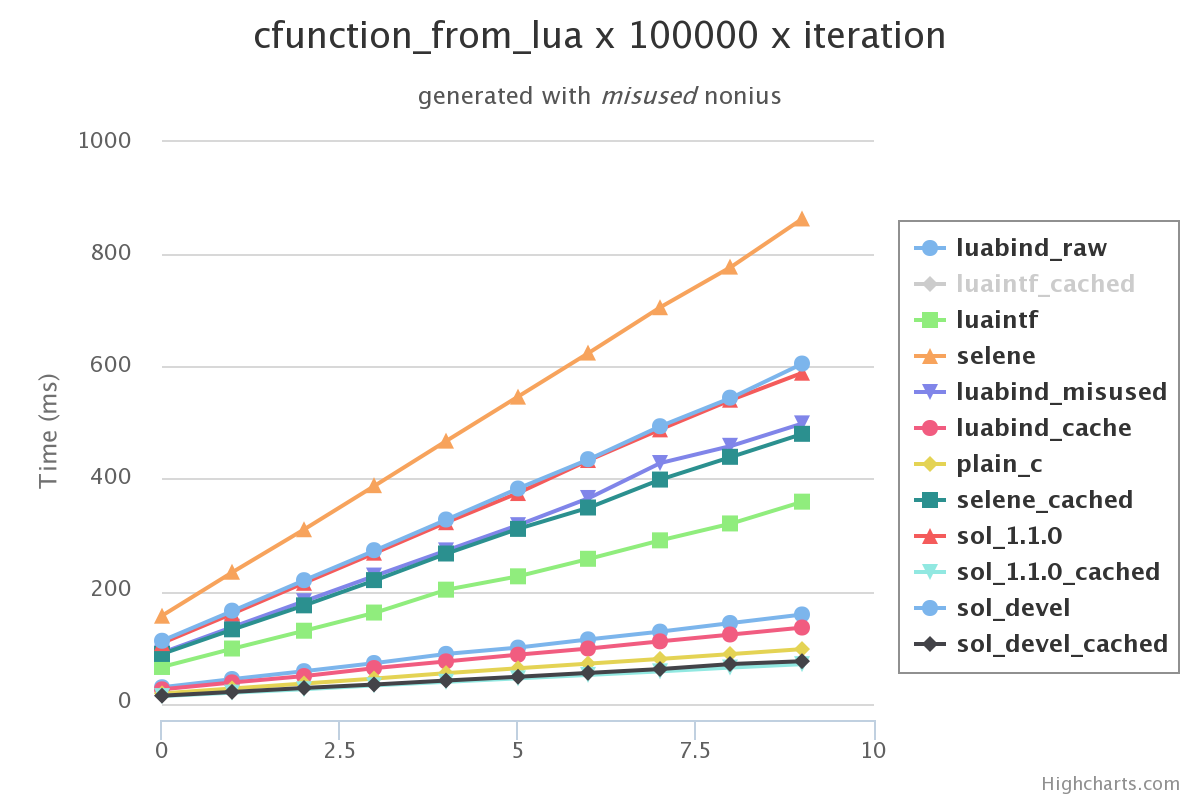
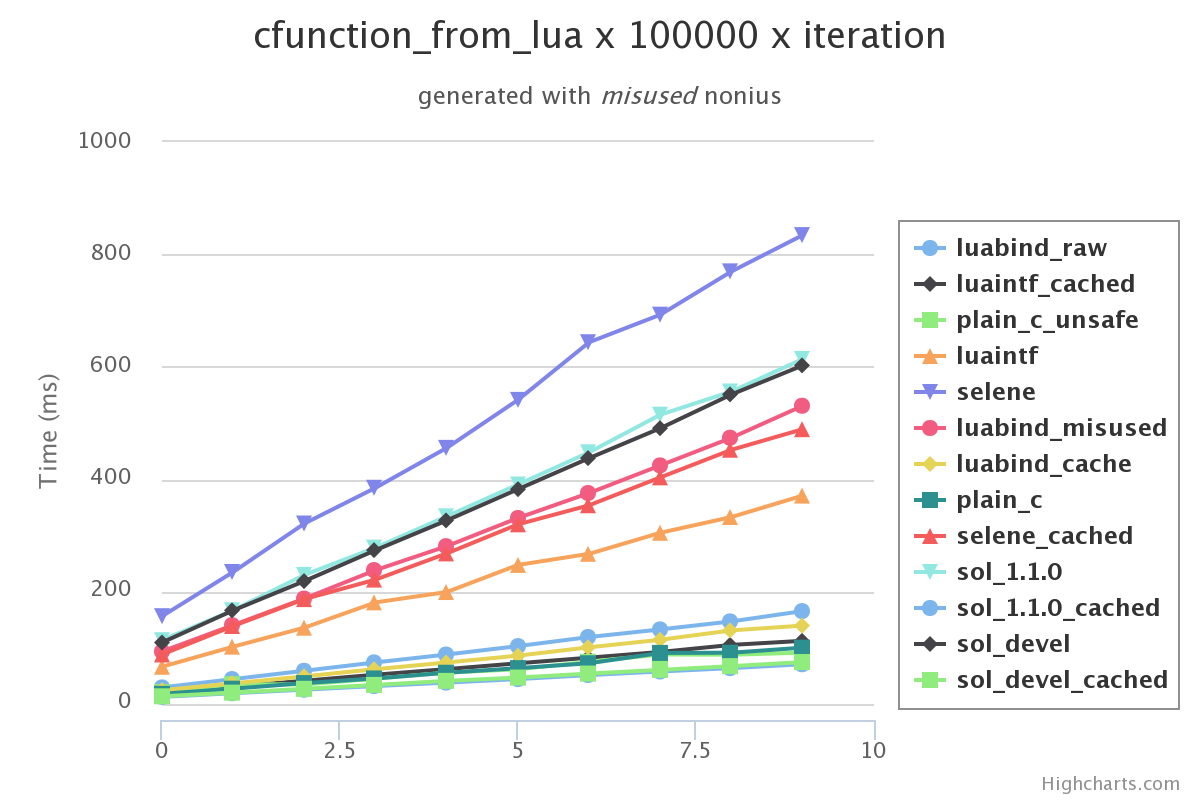
plain c with safety checks added

diff --git a/bechmark/tests/symmetrical_c2lua2c/plian_c.cpp b/bechmark/tests/symmetrical_c2lua2c/plian_c.cpp
@@ -24,11 +24,19 @@ namespace plain_c_benchmark {
 		return 1;
 	}
 
+	int plain_lua_test_wrapper_unsafe(lua_State *L) {
+		int value = lua_tonumber(L, 1);
+		int result = benchmark_core::simple_math(value);
+		lua_pushnumber(L, result);
+		return 1;
+	}
+
 	struct benchmark : public  benchmark_core::base_bechmark {
 		
 		benchmark() {
 
 			lua_register(lua_state, "simple_math", &plain_lua_test_wrapper);
+			lua_register(lua_state, "simple_math_unsafe", &plain_lua_test_wrapper_unsafe);
 
 			reg(nonius::benchmark("plain_c", [this] {
 				int result = 0;
@@ -37,6 +45,26 @@ namespace plain_c_benchmark {
 				for (size_t i = 0, end = NUM_ITERATIONS*iteration_index; i < end; ++i) {
 					// the function name
 					lua_getglobal(L, "simple_math");
+					// the argument 
+					lua_pushnumber(L, 42);
+					// call the function with 2	arguments, return 1 result 
+					lua_call(L, 1, 1);
+					int lua_out = (int)lua_tonumber(L, -1);
+					lua_pop(L, 1);
+					result += lua_out;
+				}
+				++iteration_index;
+				return result;
+			}));
+
+			reg(nonius::benchmark("plain_c_unsafe", [this] {
+				int result = 0;
+				auto L = this->lua_state;
+				static size_t iteration_index = 1;
+
+				for (size_t i = 0, end = NUM_ITERATIONS*iteration_index; i < end; ++i) {
+					// the function name
+					lua_getglobal(L, "simple_math_unsafe");
 					// the argument 
 					lua_pushnumber(L, 42);
 					// call the function with 2	arguments, return 1 result 

diff --git a/bechmark/tests/symmetrical_c2lua2c/selene.cpp b/bechmark/tests/symmetrical_c2lua2c/selene.cpp
@@ -19,6 +19,7 @@ namespace selene_benchmark {
 				++iteration_index;
 				return result;
 			}));
+
 			reg(nonius::benchmark("selene_cached", [this] {
 				auto &sel_state = this->sel_state;
 				int result = 0;
